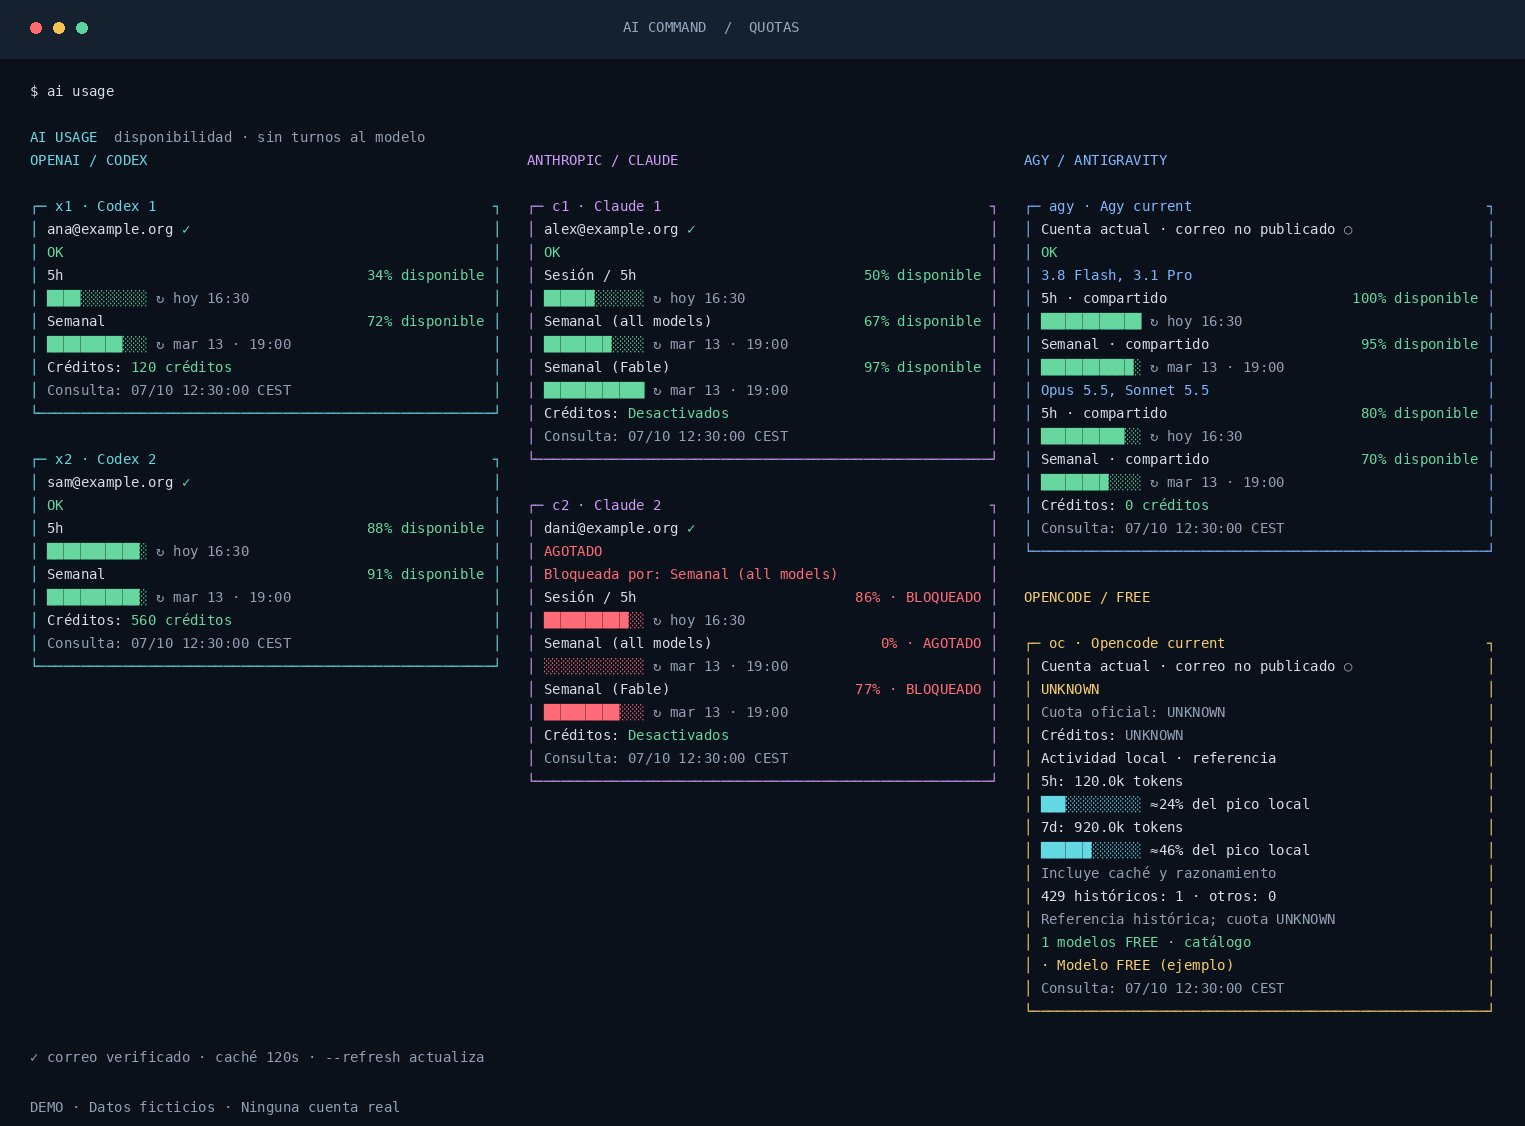
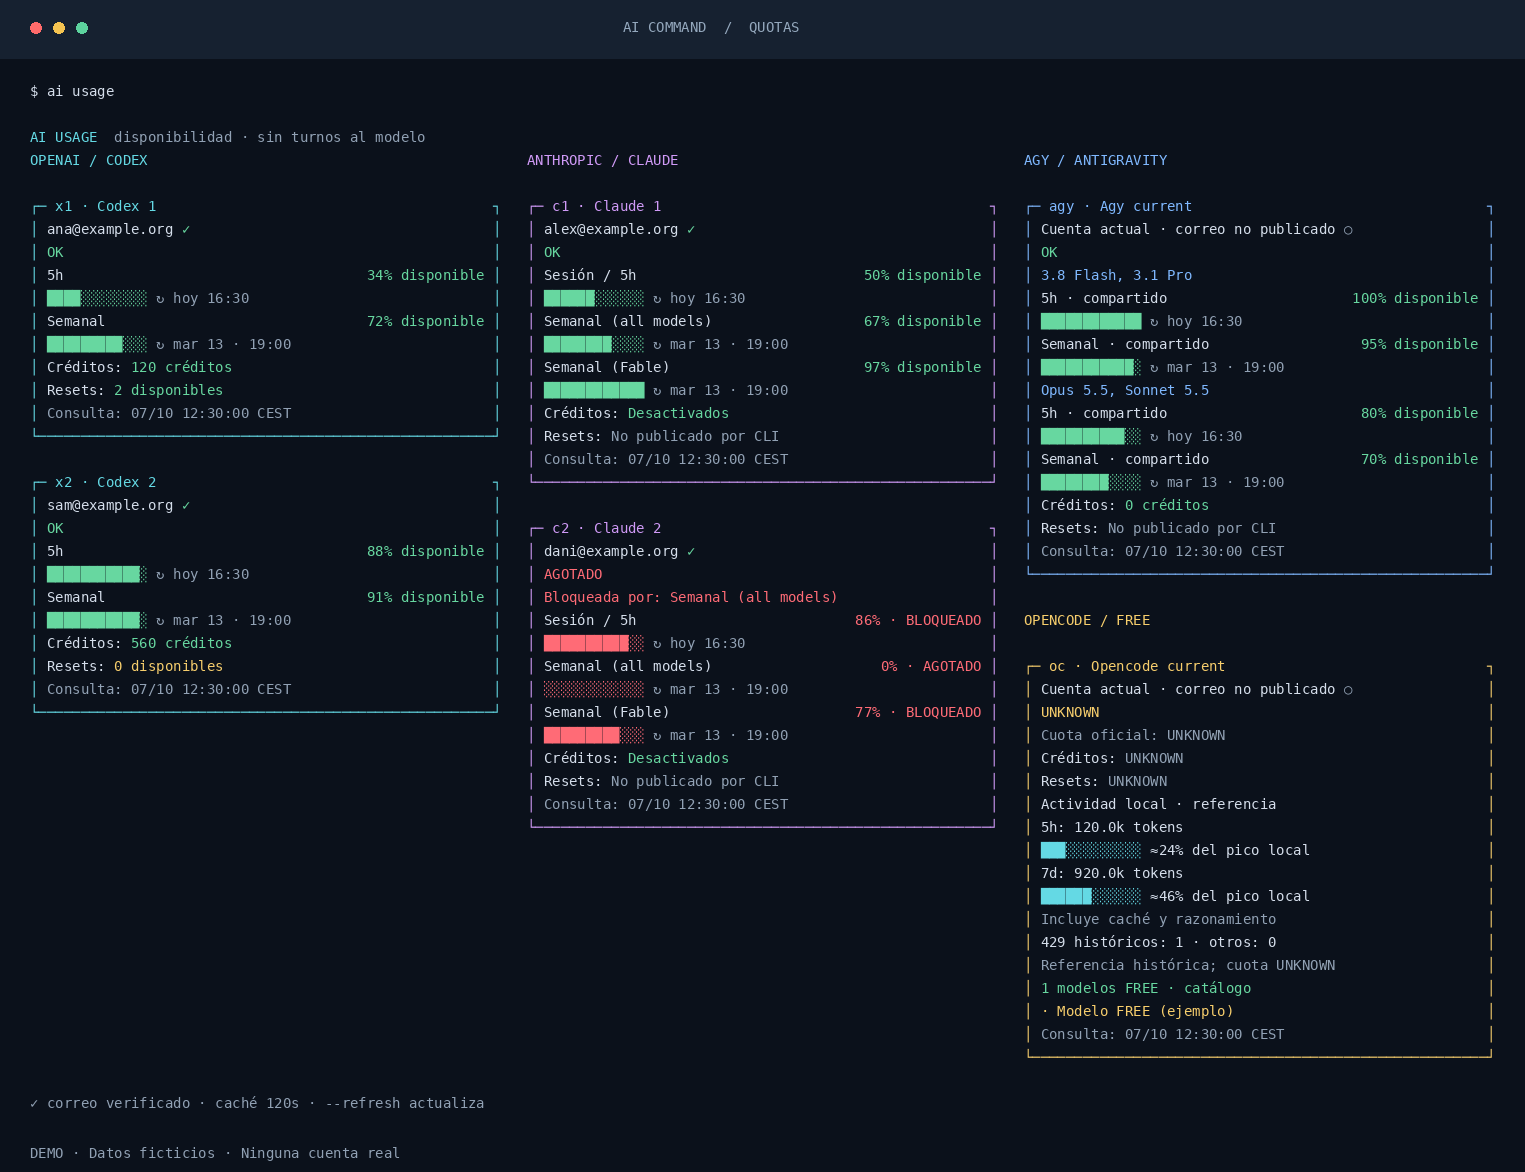
docs(usage): explain manual resets and refresh the fictional quota screenshot

diff --git a/scripts/render_demo.py b/scripts/render_demo.py
@@ -21,8 +21,8 @@ def add(provider,number,email,windows,**extra):
  rows.append({'status':'OK','email_verified':bool(email),'windows':windows,
               'credits':{'display':'Desactivados'},'queried_at':'2026-10-07T10:30:00+00:00',**extra})
 
-add('codex',1,'ana@example.org',[window('codex/5h',34,300),window('codex/weekly',72,10080)],credits={'display':'120 créditos'})
-add('codex',2,'sam@example.org',[window('codex/5h',88,300),window('codex/weekly',91,10080)],credits={'display':'560 créditos'})
+add('codex',1,'ana@example.org',[window('codex/5h',34,300),window('codex/weekly',72,10080)],credits={'display':'120 créditos'},reset_credits_available=2)
+add('codex',2,'sam@example.org',[window('codex/5h',88,300),window('codex/weekly',91,10080)],credits={'display':'560 créditos'},reset_credits_available=0)
 add('claude',1,'alex@example.org',[window('Current session',50,300),window('Current week (all models)',67,10080),window('Current week (Fable)',97,10080)])
 add('claude',2,'dani@example.org',[window('Current session',86,300),window('Current week (all models)',0,10080),window('Current week (Fable)',77,10080)])
 add('agy','current',None,[window('Gemini Models · 5h',100,300),window('Gemini Models · Semanal',95,10080),window('Claude and GPT models · 5h',80,300),window('Claude and GPT models · Semanal',70,10080)],

diff --git a/README.md b/README.md
@@ -140,6 +140,16 @@ incluyen correo verificado, ventanas publicadas, reset, créditos y fecha de con
 Una ventana semanal general agotada pone las dependientes en rojo y muestra
 `BLOQUEADO`, conservando sus porcentajes originales.
 
+`Resets: 2 disponibles` muestra los reinicios manuales que publica la cuenta,
+separados del saldo de créditos y de la fecha del próximo reinicio automático.
+Codex proporciona el contador mediante su
+[protocolo oficial](https://developers.openai.com/codex/app-server/).
+Un cero se muestra como `0 disponibles`; un dato ausente aparece como
+`No publicado por CLI` o `UNKNOWN` si la consulta falla. Claude Code no publica
+ese contador en la versión comprobada: sus resets se consultan en
+[Settings > Usage de Claude](https://support.claude.com/en/articles/17007452-what-is-a-limit-reset).
+Consultar uso no consume resets ni habilita una cuenta con cuota agotada.
+
 | Herramienta | Fuente de información |
 |---|---|
 | Codex | Protocolo local oficial de `codex app-server`, `account/rateLimits/read` |

diff --git a/CHANGELOG.md b/CHANGELOG.md
@@ -2,6 +2,7 @@
 
 ## Unreleased
 
+- Las tarjetas de uso muestran los resets manuales disponibles publicados por Codex, separados del saldo y de las fechas de reinicio automático. Cero, dato no publicado y consulta fallida se distinguen sin consumir resets ni modificar la selección de cuenta.
 - VS Code conserva las pestañas y grupos Split/Join; tmux conserva los agentes. La recuperación usa claves existentes, adopta pestañas revividas y evita terminales vacías adicionales y cambios de foco.
 - Resume nativo de Claude resuelve conversaciones de otros perfiles por su ruta original, sin compartir credenciales. Codex y Claude conservan scroll normal.
 - Conexión privada para servidores tmux 3.2–3.5 activos, sin control clients ni reiniciar agentes. Pruebas reales de PTY y VS Code con dos reinicios, Split, Join y scroll.

diff --git a/skills/ai-command/SKILL.md b/skills/ai-command/SKILL.md
@@ -30,6 +30,10 @@ La última sesión se filtra por directorio; los subagentes no son sesiones prin
 Un fallo de proveedor se resuelve con `--pick` o `ai handoff`, sin editar transcripts.
 
 `ai usage --refresh` consulta en paralelo sin turnos al modelo. UNKNOWN es válido.
+Las tarjetas distinguen el próximo reinicio automático, los créditos y los
+resets manuales disponibles. Codex publica el contador oficial; si otro CLI no
+lo publica, no inferir cero ni usar endpoints privados. Consultar uso no consume
+resets ni permite seleccionar una cuenta con cuota agotada.
 OpenCode muestra actividad local aproximada, nunca cuota restante. AGY/OpenCode
 usan el único login actual. No actives compras, proveedores de pago ni nuevos logins
 sin que la tarea los pida.
